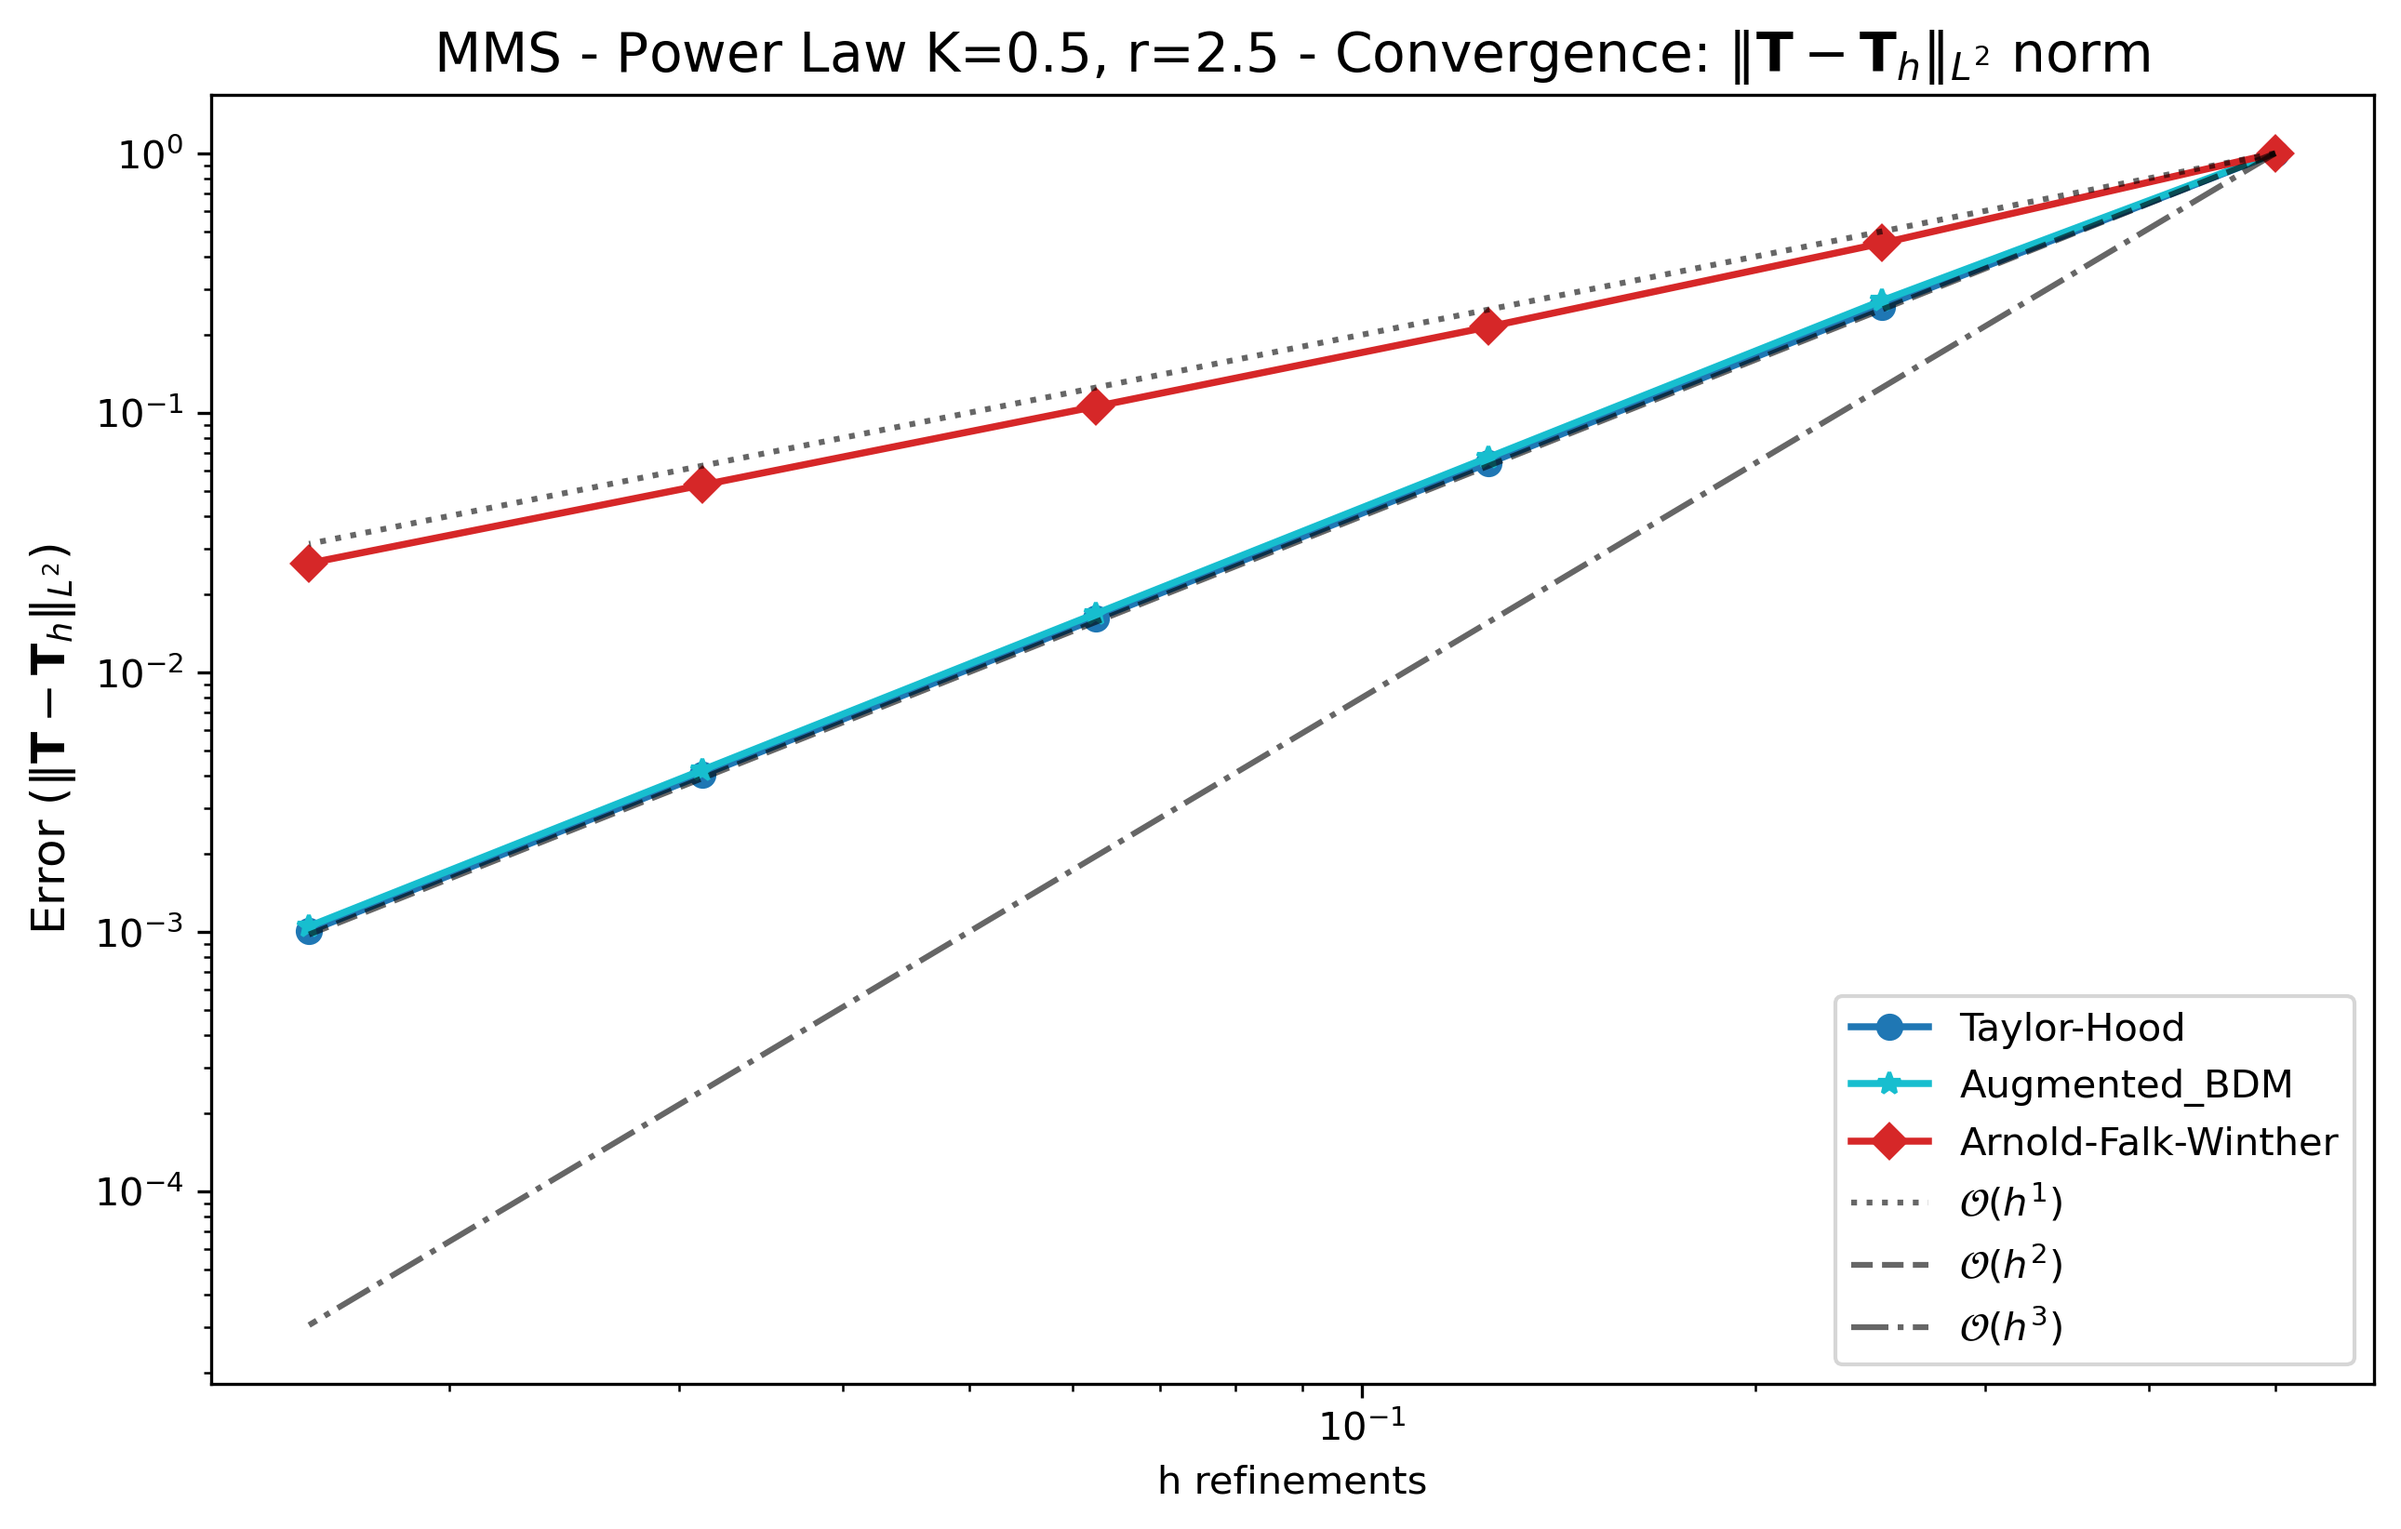
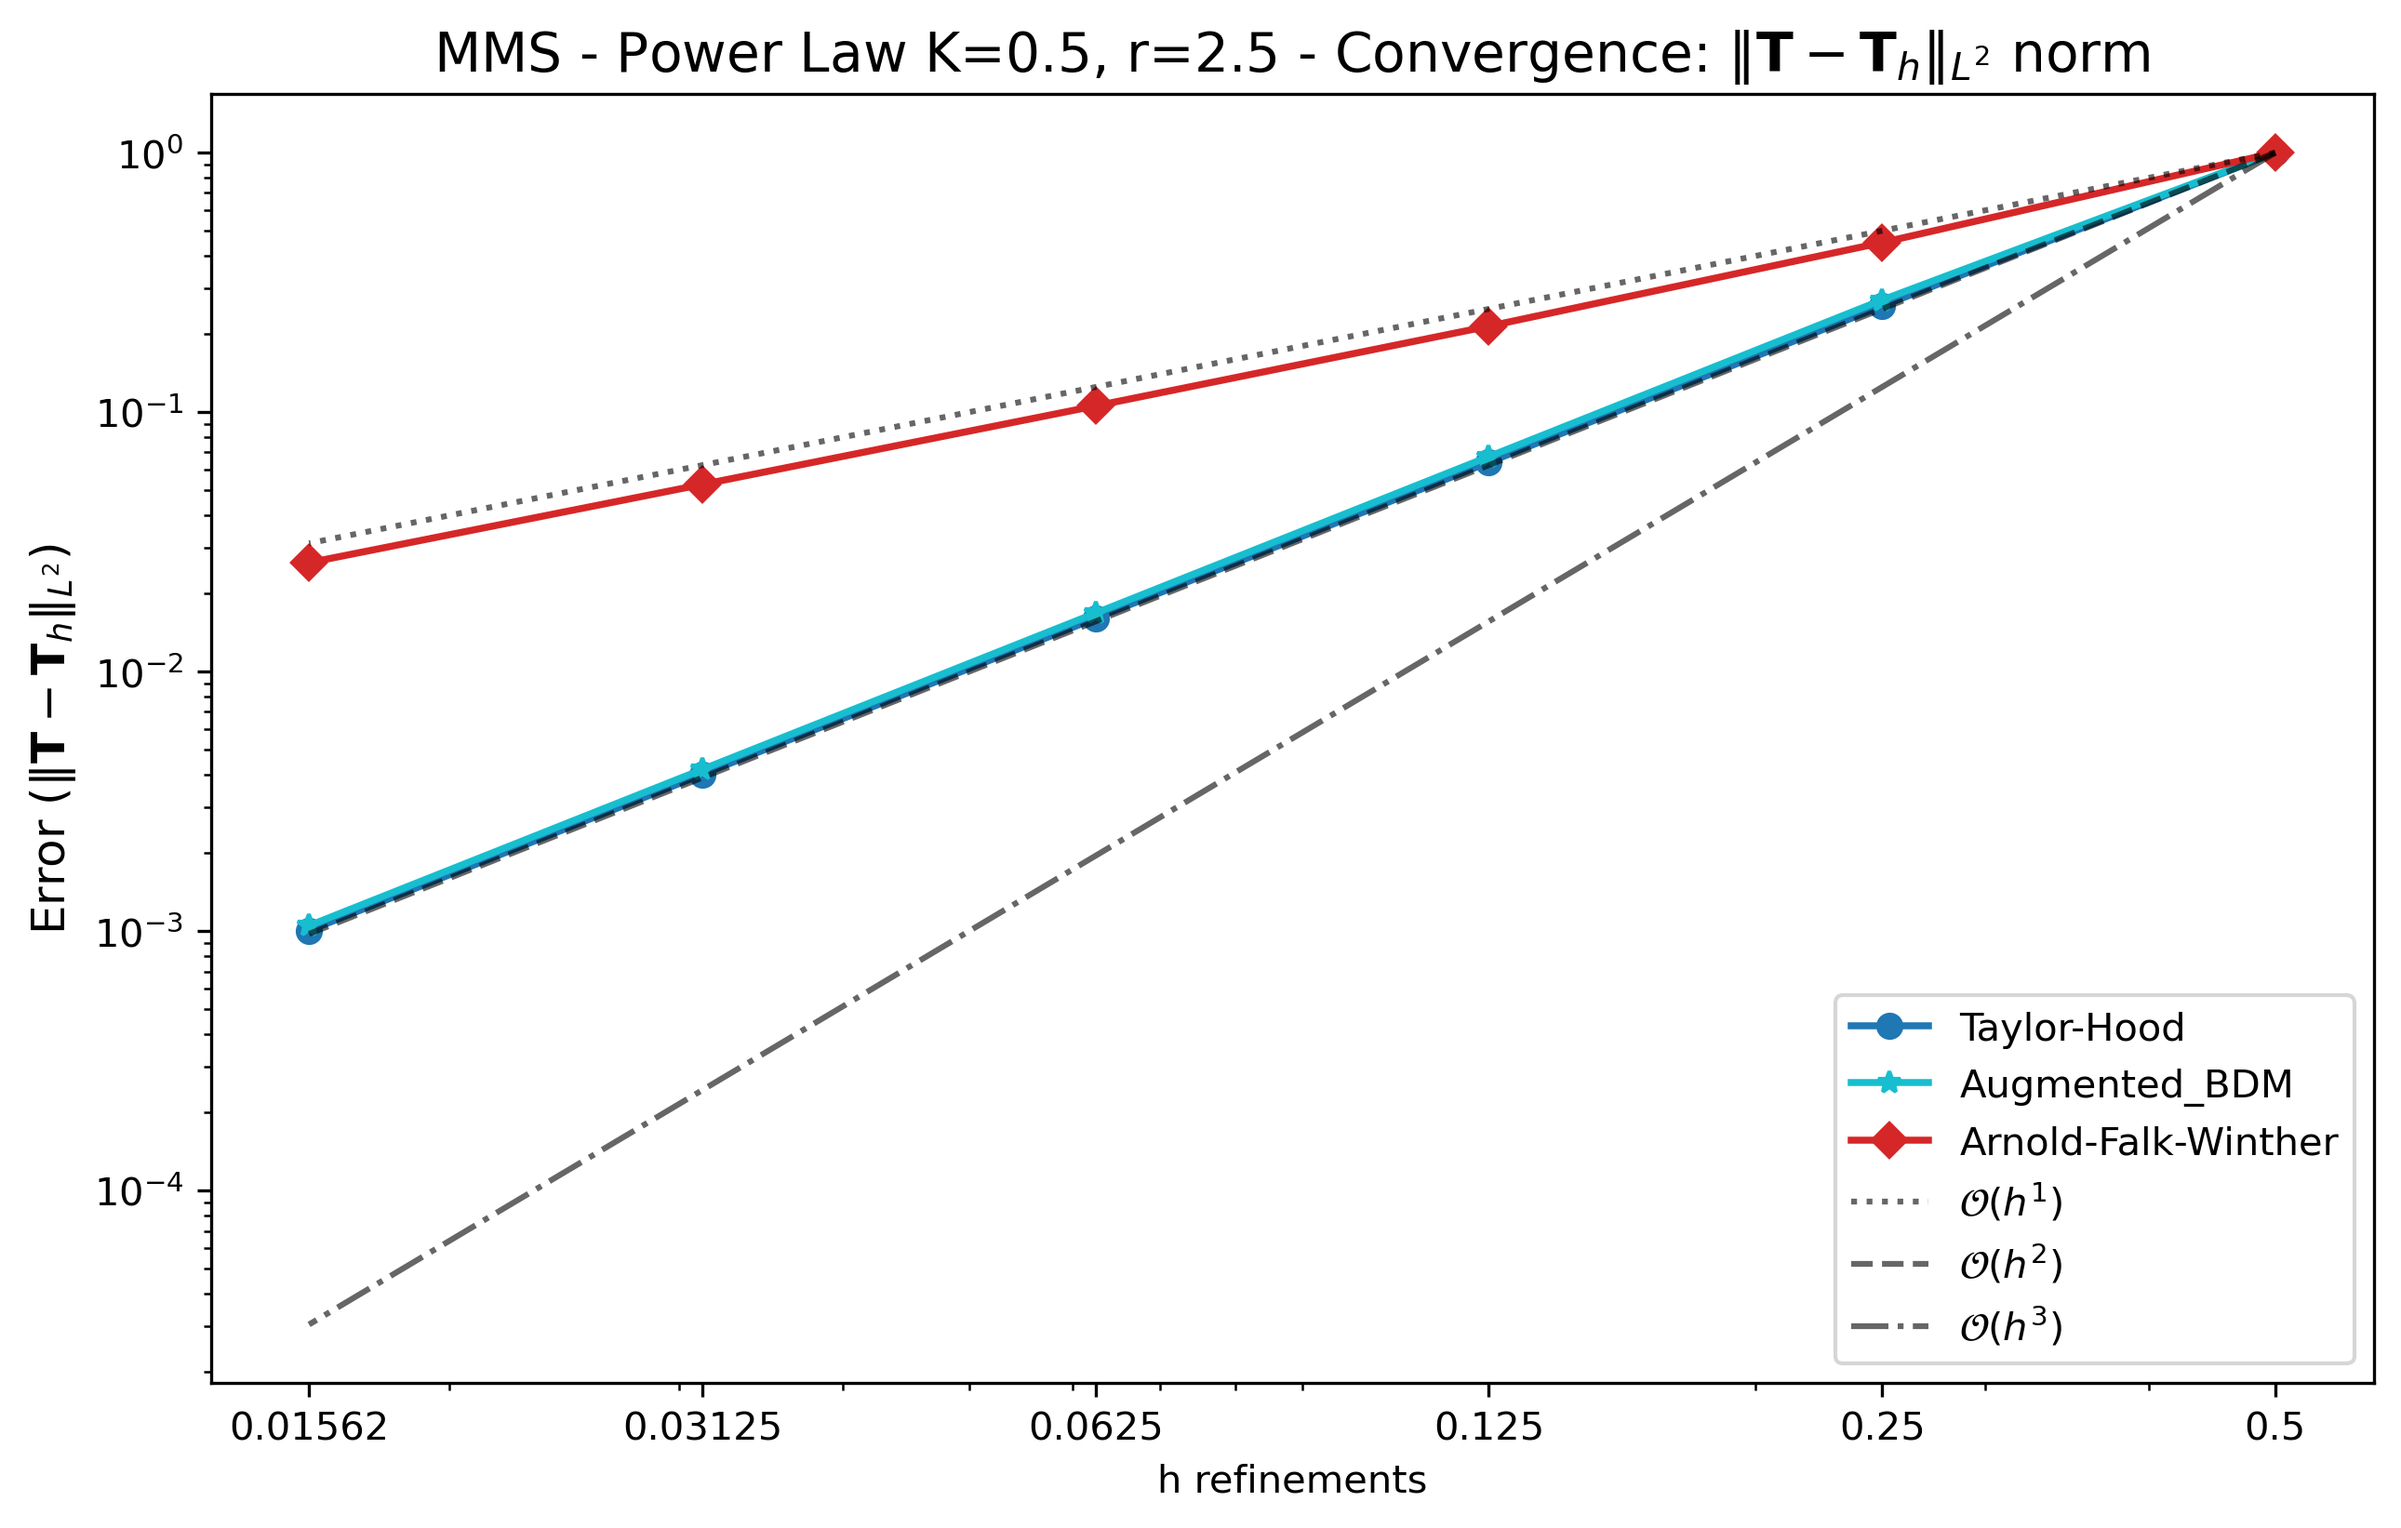
Updated convergence plots for L2 errors of T and u. Adjusted x-axis labels for h and p refinements in the convergence_plotter.py script.

diff --git a/postprocessing/convergence_plotter.py b/postprocessing/convergence_plotter.py
@@ -166,6 +166,13 @@ class ConvergencePlotter:
             ax.set_ylabel(rf"Error (${norm.label[0]}$)", fontsize=12)
             xlabel = "h refinements" if self.mode=="h" else "p"
             ax.set_xlabel(xlabel=xlabel)
+
+            ax.set_xticks(study.refs)
+            if self.mode == "h":
+                ax.set_xticklabels([f"{val:.4g}" for val in study.refs])
+            else:
+                ax.set_xticklabels([f"{int(val)}" for val in study.refs])
+            # -----------------------------
             if not show:
                 plt.close(fig)
         return figures
